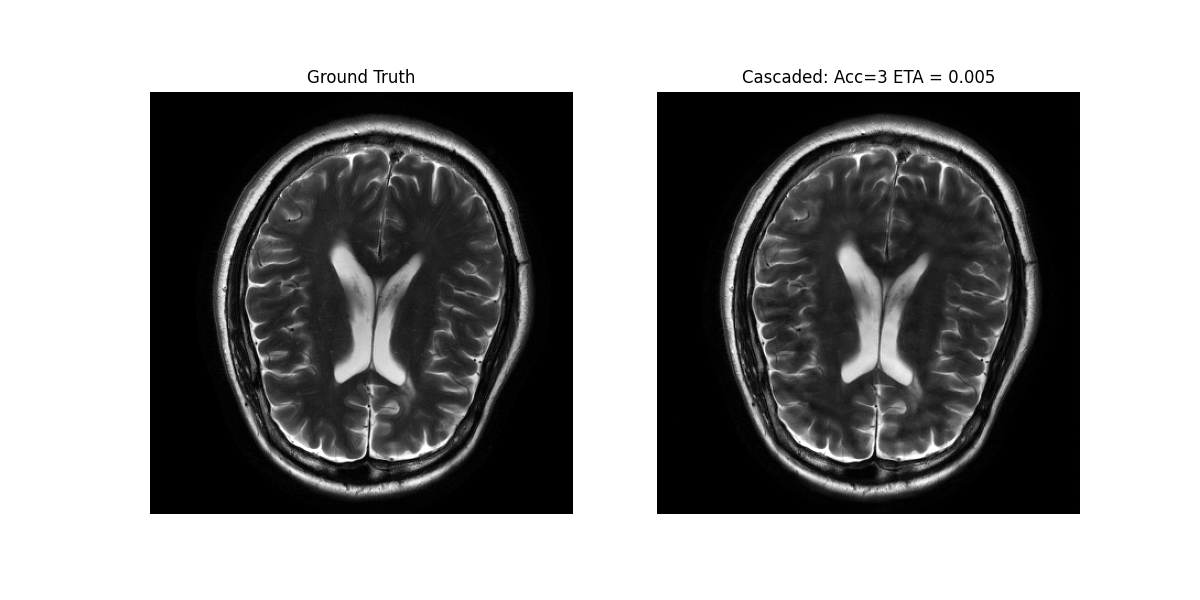
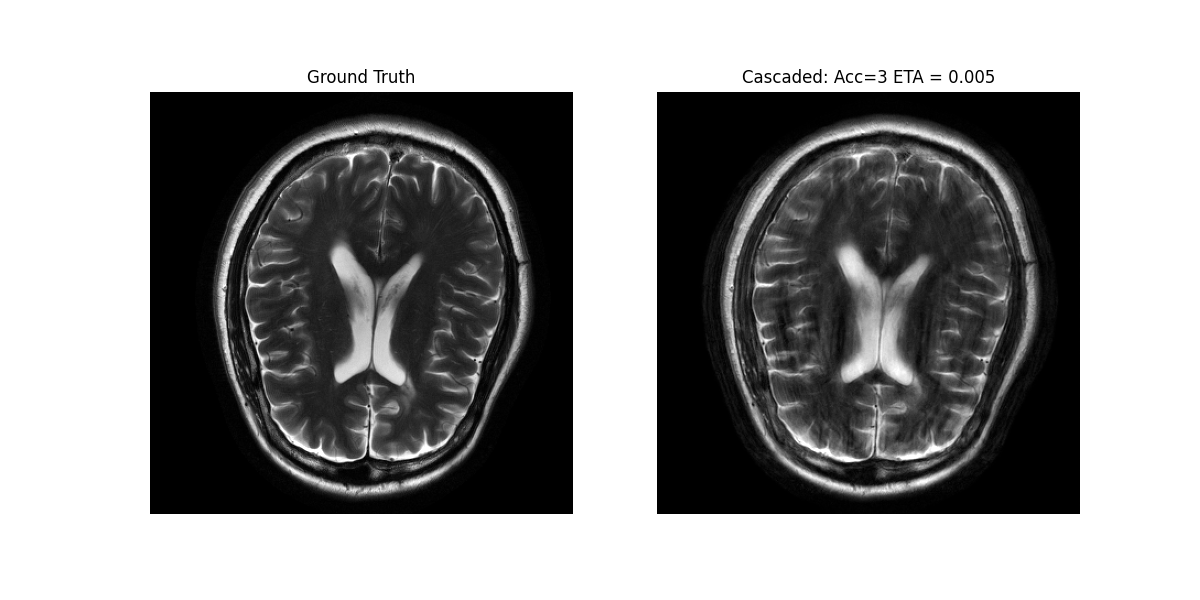
change

diff --git a/alps/operators.py b/alps/operators.py
@@ -363,18 +363,37 @@ class MRIOperator(nn.Module):
         """
         Draw a sample with covariance  B_t = (AᴴA/eta² + I/t²)⁻¹.
 
-        Construction (exact for any linear A):
-            z   = Aᴴ ε₁ / eta + ε₂ / t,   ε₁,ε₂ ~ N(0, I)
-            ⇒  Cov(z) = AᴴA/eta² + I/t² = Pₜ
-            n'  = B_t z = Pₜ⁻¹ z   ⇒  Cov(n') = B_t
-        ε₂ is the image-space noise passed in as `n`; ε₁ is drawn here in
-        multi-coil measurement space.  Reuses the same CG solve as
-        PreCondition (the Pₜ⁻¹ apply).
+        Closed-form diagonal k-space gain filter (matching sense_new.py):
+
+            N    = FFT(n)
+            gain = 1 / sqrt(mask/eta² + 1/t²)
+            n'   = IFFT(N * gain)
+
+        This is the exact formula when AᴴA is diagonal in k-space (coil-
+        combined / single-coil SENSE).  For full multi-coil SENSE it is an
+        efficient approximation that matches the sense_new.py reference.
+
+        Parameters
+        ----------
+        n : (B, 2, H, W)  image-space white noise  (real/imag channels)
+        t : float          current noise level (sigma)
         """
-        B, _, H, W = n.shape
-        eps1 = torch.randn(B, self.n_coils, H, W, device=n.device, dtype=n.dtype) \
-             + 1j * torch.randn(B, self.n_coils, H, W, device=n.device, dtype=n.dtype)
-        z = self.adjoint(eps1) / self.eta + n / t
-        return self.PreCondition(z, t)
+        # Convert (B, 2, H, W) → (B, H, W) complex
+        nc = _to_complex(n)                                   # (B, H, W)
+
+        # Transform to k-space (same centred-ortho convention as forward/adjoint)
+        N = _fft2(nc)                                         # (B, H, W) complex
+
+        # Diagonal gain:  1 / sqrt(mask/eta² + 1/t²)
+        # mask is (1,1,H,W); squeeze to (H,W) so it broadcasts cleanly with (B,H,W).
+        gain = 1.0 / torch.sqrt(
+            self.mask.squeeze(0).squeeze(0) / self.eta2 + 1.0 / (t ** 2)
+        )                                                     # (H, W)
+
+        N = N * gain                                          # (B, H, W)
+
+        # Transform back to image space
+        nw = _ifft2(N)                                        # (B, H, W) complex
+        return _to_2ch(nw)                                    # (B, 2, H, W)
 
     